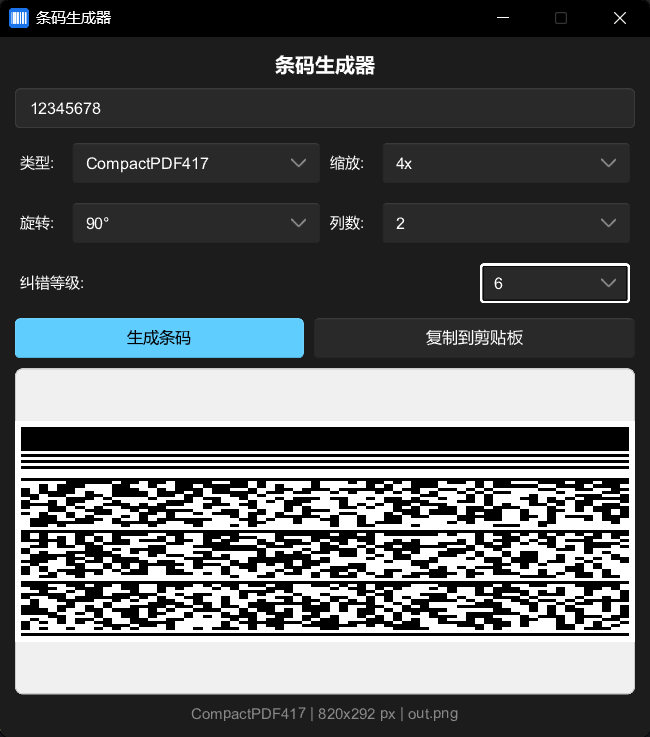
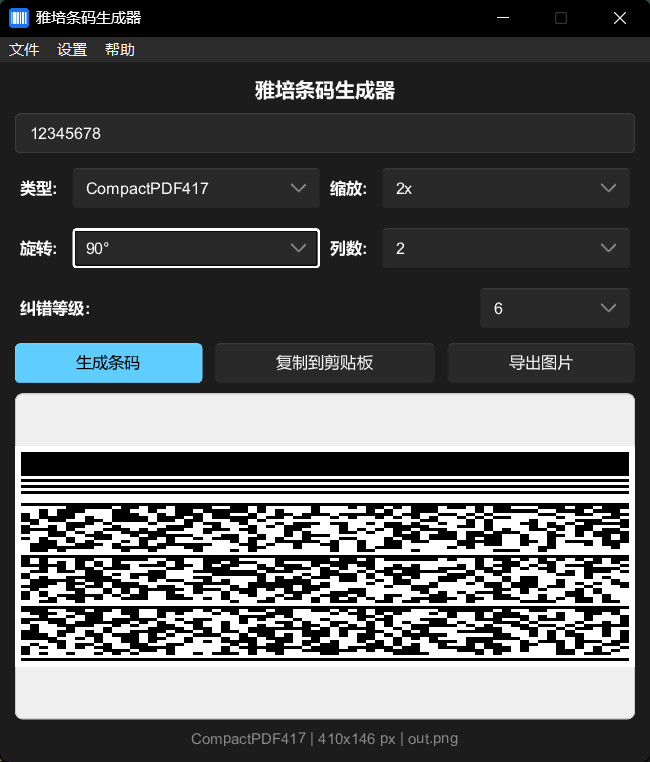
增加菜单栏

diff --git a/src/main.rs b/src/main.rs
@@ -126,6 +126,32 @@ fn setup_export_image_callback(
     });
 }
 
+fn setup_menu_callbacks(window: &BarcodeWindow) {
+    window.on_quit(|| {
+        slint::quit_event_loop().unwrap();
+    });
+
+    let window_weak = window.as_weak();
+    window.on_reset_config(move || {
+        let window = window_weak.unwrap();
+        let cfg = Config::default();
+        restore_config(&window, &cfg);
+        save_config(&cfg);
+        window.set_toast_message("配置已重置".into());
+        window.set_toast_visible(true);
+    });
+
+    //let window_weak = window.as_weak();
+    window.on_show_about(move || {
+        // rfd 显示美观弹窗提示软件信息
+        rfd::MessageDialog::new()
+            .set_title("关于 Barcode Generator")
+            .set_description("Barcode Generator v1.0\n使用 Rust 和 Slint 开发的条码生成工具\n支持多种格式和自定义选项\n作者: Mq-b\n".to_string())
+            .set_buttons(rfd::MessageButtons::Ok)
+            .show();
+    });
+}
+
 fn main() {
     let cfg = load_config();
     let window = BarcodeWindow::new().unwrap();
@@ -135,6 +161,7 @@ fn main() {
     setup_generate_callback(&window, last_gray.clone());
     setup_clipboard_callback(&window, last_gray.clone());
     setup_export_image_callback(&window, last_gray.clone());
+    setup_menu_callbacks(&window);
 
     window.run().unwrap();
 }
